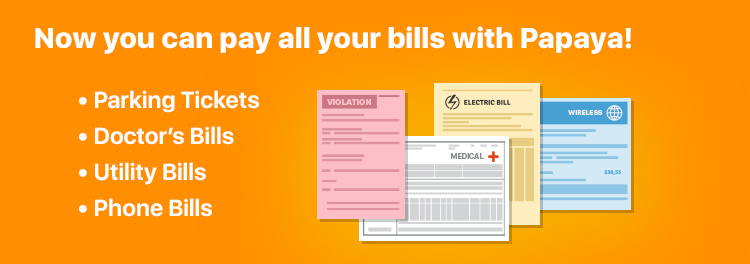
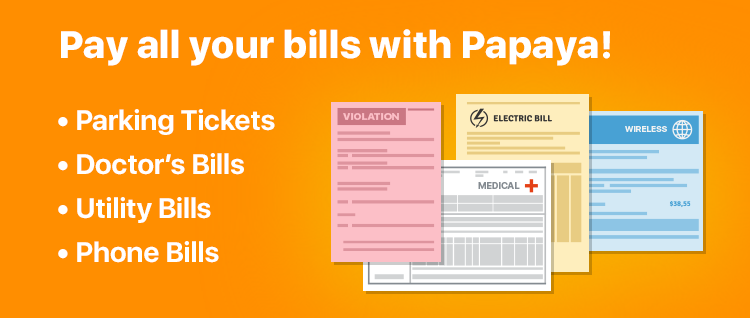
updated

diff --git a/declined3.html b/declined3.html
@@ -432,7 +432,7 @@
                             </tr>
                             <tr>
                                 <td align="left" valign="top" style="padding: 0 0 30px 0; class="padding-copy">
-									<img class="pay_image" alt="Now you can pay all your bills with Papaya!" src="pay_all_your_bills2@2x.png" style="width: 95%; height: auto; display: block; font-family: Helvetica, Arial, sans-serif; color: #ffffff; font-size: 16px; margin:auto;" border="0">
+									<img class="pay_image" alt="Pay all your bills with Papaya!" src="pay_all3.png" style="width: 95%; height: auto; display: block; font-family: Helvetica, Arial, sans-serif; color: #ffffff; font-size: 16px; margin:auto;" border="0">
 								</td>
                             </tr>
                         </table>
